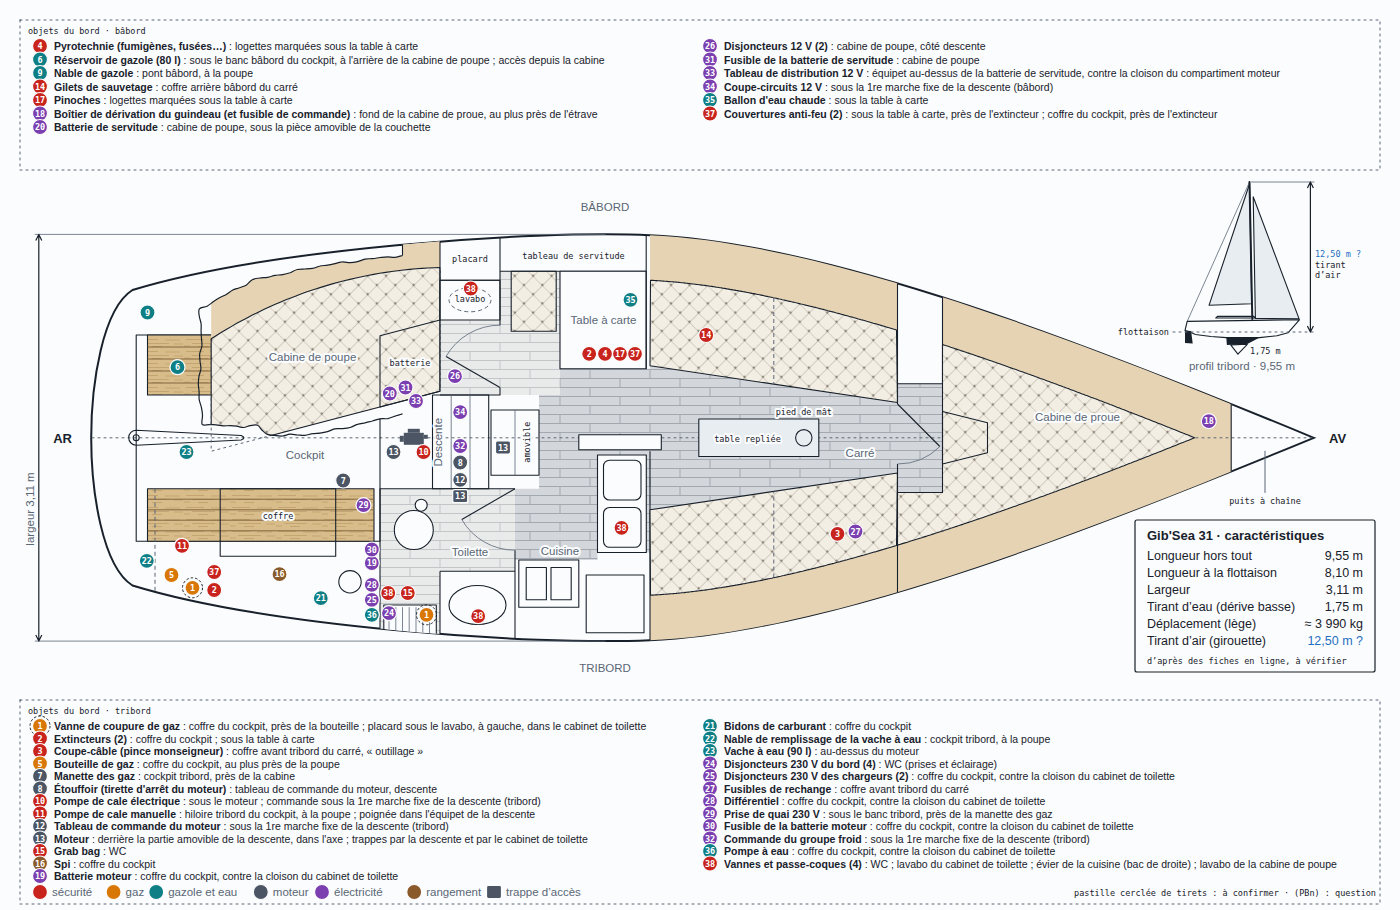
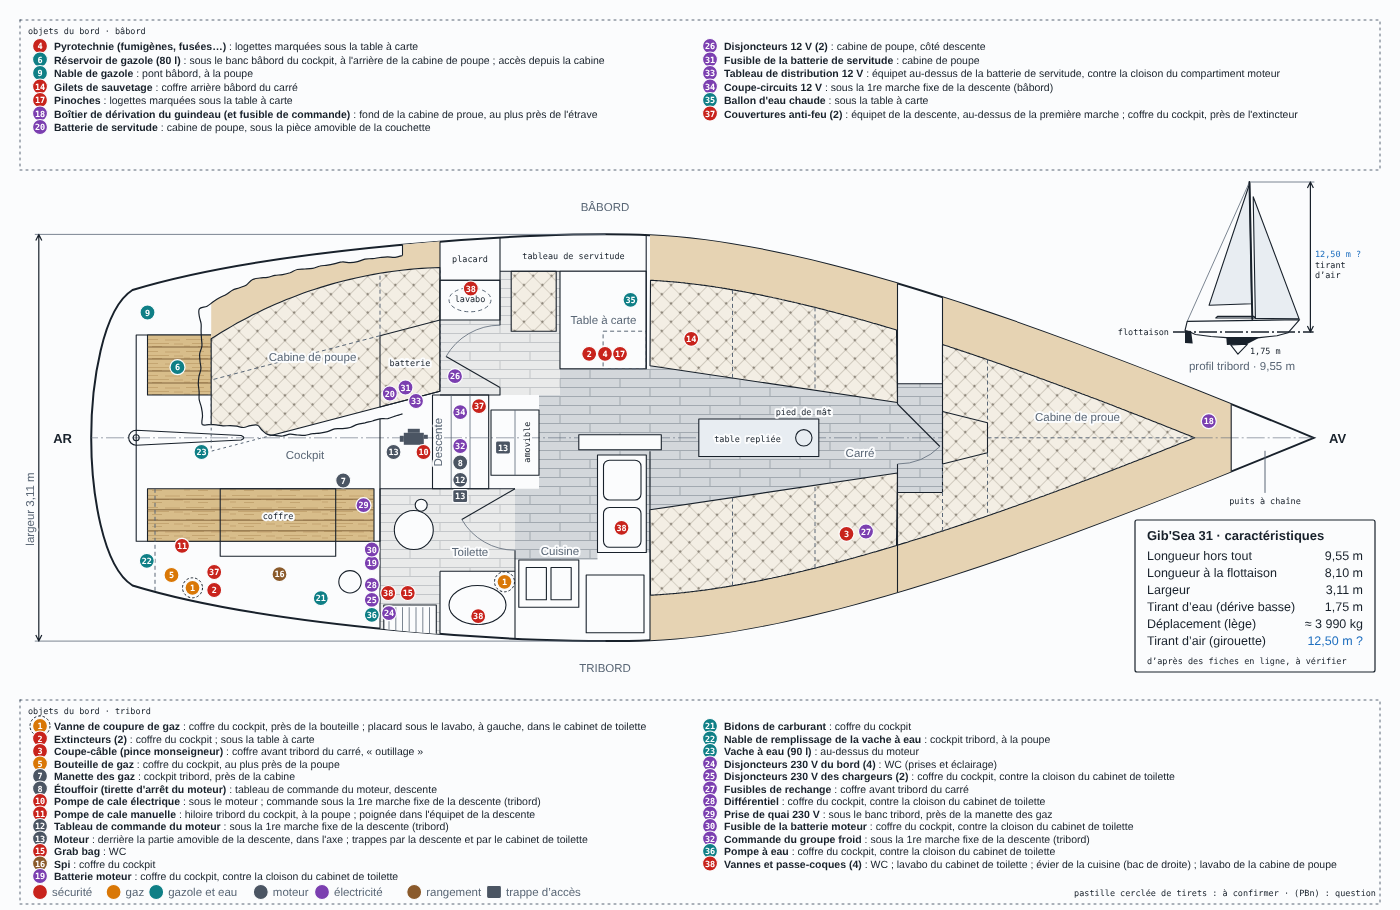
Plan de bord : axe et flottaison en traits mixtes, coffres du carré, des cabines et équipet de la table à carte
Axe en trait mixte fin, flottaison en trait mixte fort (ISO 128) : les
tirets restent réservés aux parties cachées. Coffres du carré en trois
parties ; coffres de la cabine de proue (trapèze prolongé, coffre
triangulaire séparé le long de l'axe) et de la couchette de la cabine de
poupe ; équipet sous la table à carte. Repères 1, 3, 14, 23, 27 et 37
déplacés.

Claude-Session: https://claude.ai/code/session_013MoKNYzRR8uFg8k4naTUmp

diff --git a/brouillons/plan-de-bord/plan_bord.py b/brouillons/plan-de-bord/plan_bord.py
@@ -26,6 +26,8 @@ STYLE = STYLE.replace("  </style>", """    .amg{fill:none;stroke:var(--ink);stro
     .teck-j{fill:none;stroke:var(--teck-j);stroke-width:.9}
     .vaig{fill:none;stroke:var(--vaig)}.vaig-f{fill:var(--vaig)}
     .amg-d{fill:none;stroke:var(--muted);stroke-width:1;stroke-dasharray:4 3}
+    .axe{fill:none;stroke:var(--muted);stroke-width:.6;stroke-dasharray:18 3 2 3}
+    .flot{fill:none;stroke:var(--ink);stroke-width:1.6;stroke-dasharray:18 3 2 3}
     .arr{fill:none;stroke:var(--ink);stroke-width:1.2;stroke-linejoin:round}
     svg{--c-securite:#c8231c;--c-gaz:#d97706;--c-fluides:#0f7f86;--c-moteur:#4b5563;--c-electricite:#7b3fb0;--c-rangement:#8a5a2b}
     @media (prefers-color-scheme: dark){svg{--c-securite:#e5483f;--c-gaz:#f59e0b;--c-fluides:#22a6ad;--c-moteur:#7b8794;--c-electricite:#a46be0;--c-rangement:#b07a45}}
@@ -208,7 +210,11 @@ A(path("sol-b", (640, 265), (640, 230), (760, 230), *mi, (1090, 250), (1150, 250
        (1090, 395), *[(x, M(y)) for x, y in reversed(mi)], (690, M(mi[0][1])), (690, 485),
        (580, 485), (580, 390), (612, 390), (612, 265), close=True))
 
-A(path("bound", (0, CY), (1700, CY)))
+# axe du navire en trait mixte fin (ISO 128), interrompu dans le coffre triangulaire de la cabine de proue,
+# séparé en deux le long de l'axe (arête cachée, prioritaire sur l'axe)
+XT, XV = 1210, dossier(1150, 1700)[-1][0]    # sommet du trapèze, pointe du V des dossiers
+A(path("axe", (0, CY), (XT, CY)))
+A(path("axe", (XV, CY), (1700, CY)))
 
 A('<!-- Cockpit : bancs à lattes, coffre tribord, winches, safran -->')
 A(rect("amg", 75, 185, 400, 460))
@@ -248,6 +254,10 @@ la, lc = (480, 165), (480, YC)
 ld = (400, YC + 80 * 80 / 305)               # sur le bord tribord de la couchette
 lb = (la[0] + ld[0] - lc[0], la[1] + ld[1] - lc[1])   # côtés opposés parallèles
 A(path("amg", la, lc, ld, lb, close=True))
+# coffres sous la couchette : côtés de la pièce amovible prolongés vers la poupe et vers bâbord
+A(path("amg-d", lb, (175, la[1] + (175 - la[0]) * (lb[1] - la[1]) / (lb[0] - la[0]))))
+A(path("amg-d", lb, (lb[0], next(ya + (yb-ya) * (lb[0]-xa) / (xb-xa)
+                                  for (xa, ya), (xb, yb) in zip(bord_lit, bord_lit[1:]) if xa <= lb[0] <= xb))))
 A('</g>')
 A(f'<path class="arr" d="{d_arr}"/>')
 A(path("amg", (430, 40), (430, 79)))         # bord du pont, au-dessus de la cabine
@@ -265,6 +275,7 @@ A('<!-- Table à carte et son siège ; contre le bord, le tableau de servitude -
 A(rect("mat", 575, 100, 635, 180))           # siège, aligné sur la table côté bâbord
 A(path("amg", (560, 100), (755, 100)))       # séparation du tableau de servitude
 A(rect("amg-b", 640, 100, 755, 230))           # table à carte, écartée du bord
+A(rect("amg-d", 697.5, 180, 755, 230))       # équipet sous la table, contre la banquette, ouvert côté puits de dérive
 A(path("amg", (755, 50), (755, 230)))
 
 A('<!-- Descente et sa partie amovible (accès au moteur) -->')
@@ -301,10 +312,10 @@ A(path("amg", (760, 340), (760, 598)))
 A('<!-- Carré : banquettes (le trait côté bord est le dossier), table repliée, pied de mât -->')
 A(path("mat", *db, (1090, 275), (760, 226), close=True))
 A(path("mat", *[(x, M(y)) for x, y in db], (1090, M(275)), (760, M(226)), close=True))
-XC = 925                                     # coffres sous les banquettes : partie arrière et partie avant
-yd = next(y for x, y in db if x >= XC)
-for f in (lambda y: y, M):
-    A(path("amg-d", (XC, f(yd)), (XC, f(226 + (XC - 760) * 49 / 330))))
+for XC in (870, 980):                        # coffres sous les banquettes : trois parties
+    yd = next(y for x, y in db if x >= XC)
+    for f in (lambda y: y, M):
+        A(path("amg-d", (XC, f(yd)), (XC, f(226 + (XC - 760) * 49 / 330))))
 A(rect("amg-f", 825, CY-25, 985, CY+25))     # table repliée, sur l'axe
 A(circle("amg", 965, CY, 11))                # pied de mât, dans la table, à son bout avant
 
@@ -321,6 +332,20 @@ dpt = dossier(1090, 1700)
 A(path("mat", (1150, dp[0][1]), *dp, *[(x, M(y)) for x, y in reversed(dpt[:-1])],
        (1090, M(dpt[0][1])), (1090, 395), (1150, 395), close=True))
 A(path("amg", (1150, 287), (1210, 302), (1210, 342), (1150, 357), close=True))  # trapèze, sur le bord de la couchette
+
+
+def y_dossier(x):
+    """Ordonnée du dossier bâbord à l'abscisse x (interpolée)."""
+    q = dossier(760, 1700)
+    return next(ya + (yb-ya) * (x-xa) / (xb-xa) for (xa, ya), (xb, yb) in zip(q, q[1:]) if xa <= x <= xb)
+
+
+# coffres sous la couchette : base du trapèze prolongée jusqu'au dossier tribord, sommet jusqu'aux
+# deux dossiers ; le coffre triangulaire à l'avant est séparé en deux le long de l'axe
+A(path("amg-d", (1150, 357), (1150, M(y_dossier(1150)))))
+A(path("amg-d", (XT, y_dossier(XT)), (XT, 302)))
+A(path("amg-d", (XT, 342), (XT, M(y_dossier(XT)))))
+A(path("amg-d", (XT, CY), (XV, CY)))
 A(path("amg", (1535, 150), (1535, 494)))     # cloison du puits à chaîne
 
 A('</g>')
@@ -448,7 +473,7 @@ prof = ['<g class="profil">',
         ipath("amg-b", *COQUE), ipath("amg-f", *ROOF),
         ipath("dn", *LEST), ipath("amg-b", *DERIVE), ipath("dn", *SAFRAN),
         f'<path class="n w2" d="M{pi(285.3, 490)} L{pi(276.7, 38)}"/>',       # mât
-        f'<path class="bound" d="M{PX - 12} {PW} H{PX + KP * L + 14}"/>',      # flottaison
+        f'<path class="flot" d="M{PX - 12} {PW} H{PX + KP * L + 14}"/>',       # flottaison, trait mixte fort
         f'<text class="pin end" x="{PX - 16}" y="{PW + 3}">flottaison</text>',
         f'<text class="pin" x="{xd + 12:.0f}" y="{PW + KP * SZ * (606.7 - IWL):.0f}">{m(T)}</text>',
         f'<text class="ts mid" x="{PX + KP * L / 2:.0f}" y="{PW + KP * SZ * (606.7 - IWL) + 16:.0f}">profil tribord · {m(L)}</text>']

diff --git a/brouillons/plan-de-bord/README.md b/brouillons/plan-de-bord/README.md
@@ -12,8 +12,10 @@ Phases :
 
 5. Mise à jour du 21/10 : positions des repères reprises de la copie Inkscape ajustée par l'utilisateur (32 repères déplacés) ; repère 27, fusibles de rechange : coffre avant tribord du carré (la feuille, modifiée le 21/10, dit « coffre arrière tribord » ; corrigé par l'utilisateur). Interligne des légendes resserré quand un cadre est plein.
 
+6. Mise à jour du 22/10, d'après les remarques de l'utilisateur : axe du navire en trait mixte fin et flottaison du profil en trait mixte fort (ISO 128), pour ne plus les confondre avec les parties cachées en tirets ; coffres des banquettes du carré en trois parties (séparations aux tiers, estimées), sans repère sur les coffres centraux (14, 3 et 27 recentrés dans les coffres d'extrémité) ; puits à chaîne non séparé ; coffres de la cabine de proue (base du trapèze prolongée jusqu'au dossier tribord, sommet jusqu'aux deux dossiers, coffre triangulaire avant séparé en deux le long de l'axe, où l'arête cachée interrompt l'axe) ; coffres de la couchette de la cabine de poupe (côtés de la pièce amovible prolongés vers la poupe et vers bâbord) ; équipet sous la table à carte (moitié avant de la table, contre la banquette, ouvert côté puits de dérive) ; repères 23 avancé, 1 (placard du cabinet de toilette) dans l'angle du meuble du lavabo côté cuisine, 37 (couvertures anti-feu) déplacé de la table à carte vers l'équipet de la descente, au-dessus de la première marche.
+
 Questions de la phase 2 : PB1 à PB11, toutes répondues le 19/10. PB12 (20/10) : tirant d'air ? Aucune fiche en ligne ne le donne ; 12,50 m girouette comprise d'après l'utilisateur, à faire vérifier par Julie. Restent à faire : vérifier les emplacements « à confirmer avec Julie » (vanne de gaz), puis reporter les objets dans le relevé.
 
-`python brouillons/plan-de-bord/plan_bord.py` régénère le SVG et sa copie `folio-6-plan-de-bord-inkscape.svg` : mêmes dessins, couleurs du thème clair écrites en dur (Inkscape et la plupart des visionneuses ne lisent pas les variables CSS), fond dans un calque verrouillé, pastilles et trappes du plan dans le calque « Pastilles à placer », identifiées `pN-i` / `tN-i` (objet N, i-ème emplacement, en partant de 0). Pour placer les repères : déplacer les pastilles dans cette copie, sans toucher au reste, puis reporter leurs positions dans `objets.yaml` (X = 80 + 0,75 · x ; Y = 196,25 + 0,75 · y) ; ne pas retoucher les SVG, réécrits à chaque génération. Le script il reprend le bloc `<style>` du folio 0 et y ajoute les classes `amg`, `amg-f`, `amg-b`, `amg-d`, `amg-l`, `arr`, `halo`, `sol-b`, `sol-h`, `mat`, `teck`, `teck-j`, `vaig`, `vaig-f`, `obj`, `conf`, `tr`, `leg`, `ico-mot` et les classes de catégorie, les variables de couleur des textures et leurs motifs (`<defs>`), à reporter dans tous les folios et dans `page.py` à l'intégration.
+`python brouillons/plan-de-bord/plan_bord.py` régénère le SVG et sa copie `folio-6-plan-de-bord-inkscape.svg` : mêmes dessins, couleurs du thème clair écrites en dur (Inkscape et la plupart des visionneuses ne lisent pas les variables CSS), fond dans un calque verrouillé, pastilles et trappes du plan dans le calque « Pastilles à placer », identifiées `pN-i` / `tN-i` (objet N, i-ème emplacement, en partant de 0). Pour placer les repères : déplacer les pastilles dans cette copie, sans toucher au reste, puis reporter leurs positions dans `objets.yaml` (X = 80 + 0,75 · x ; Y = 196,25 + 0,75 · y) ; ne pas retoucher les SVG, réécrits à chaque génération. Le script il reprend le bloc `<style>` du folio 0 et y ajoute les classes `amg`, `amg-f`, `amg-b`, `amg-d`, `amg-l`, `axe`, `flot`, `arr`, `halo`, `sol-b`, `sol-h`, `mat`, `teck`, `teck-j`, `vaig`, `vaig-f`, `obj`, `conf`, `tr`, `leg`, `ico-mot` et les classes de catégorie, les variables de couleur des textures et leurs motifs (`<defs>`), à reporter dans tous les folios et dans `page.py` à l'intégration.
 
 Hors de `Electricité/` tant que l'emplacement définitif n'est pas décidé (proposé : `Electricité/livret/`, ou un dossier propre à l'armement) ; le vérificateur ne le contrôle donc pas encore.
